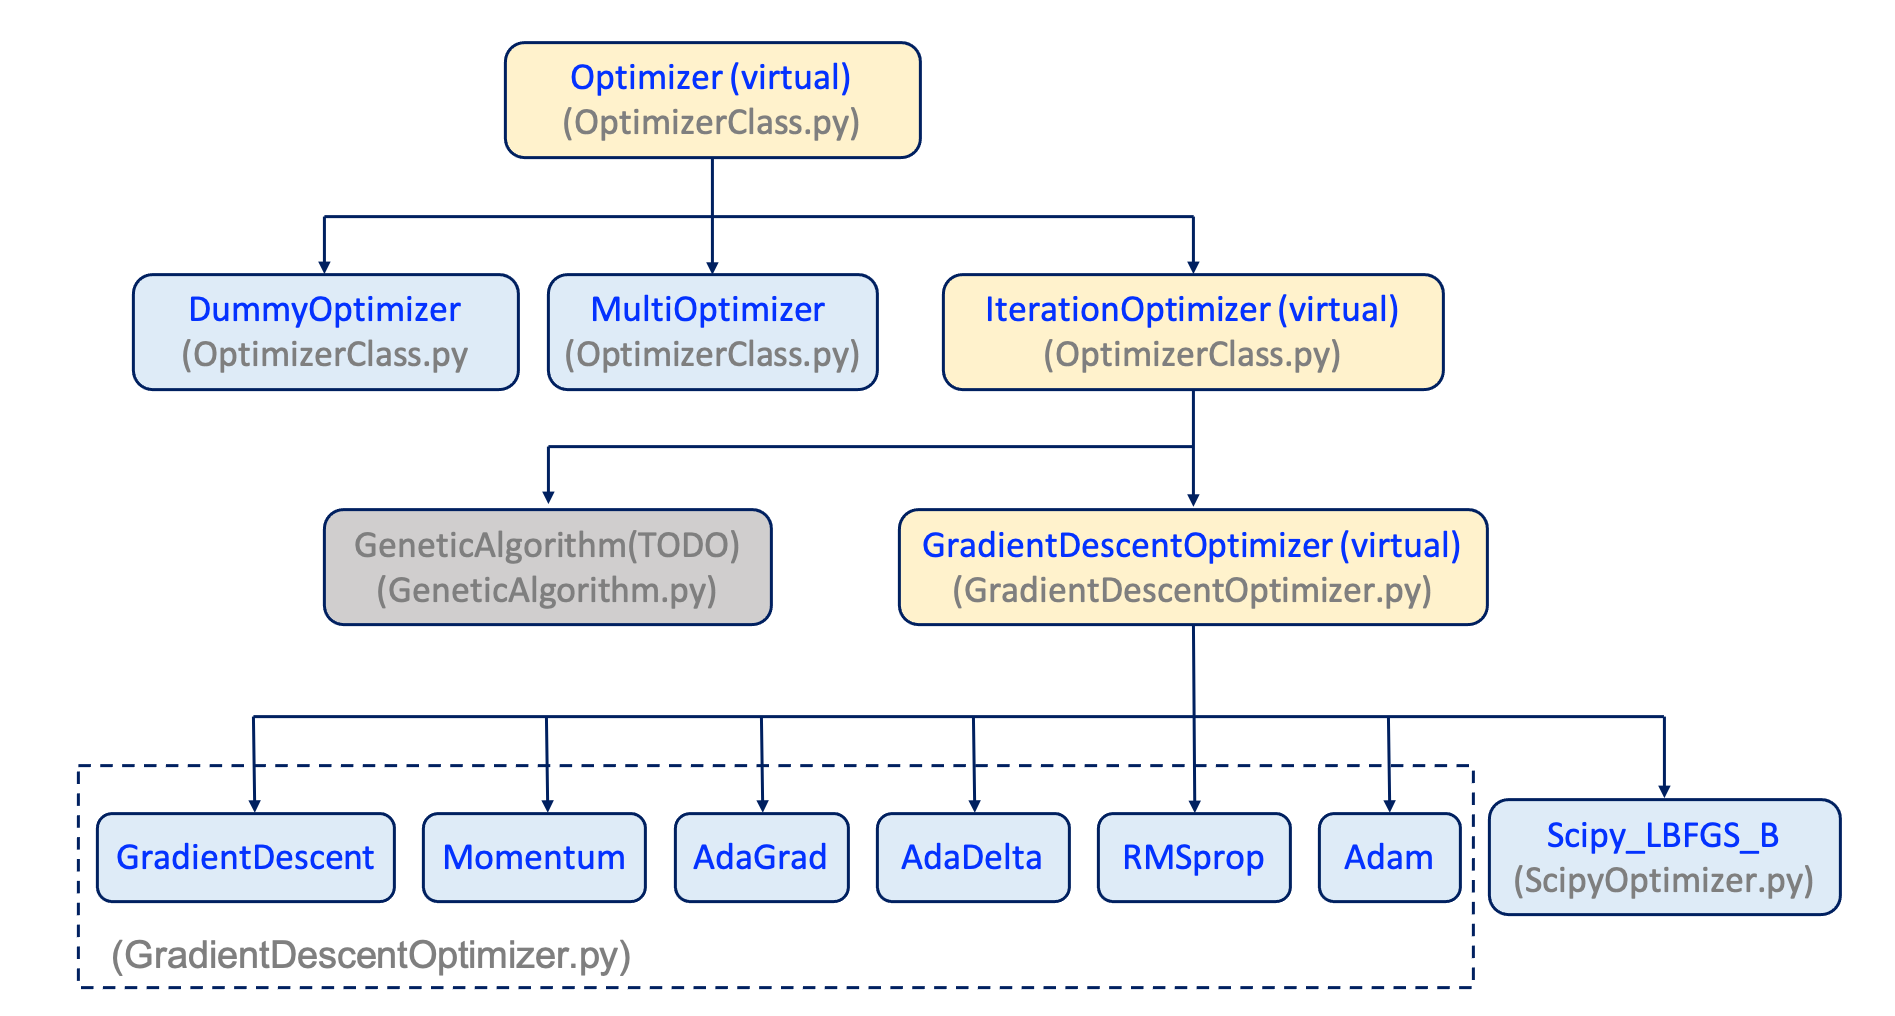
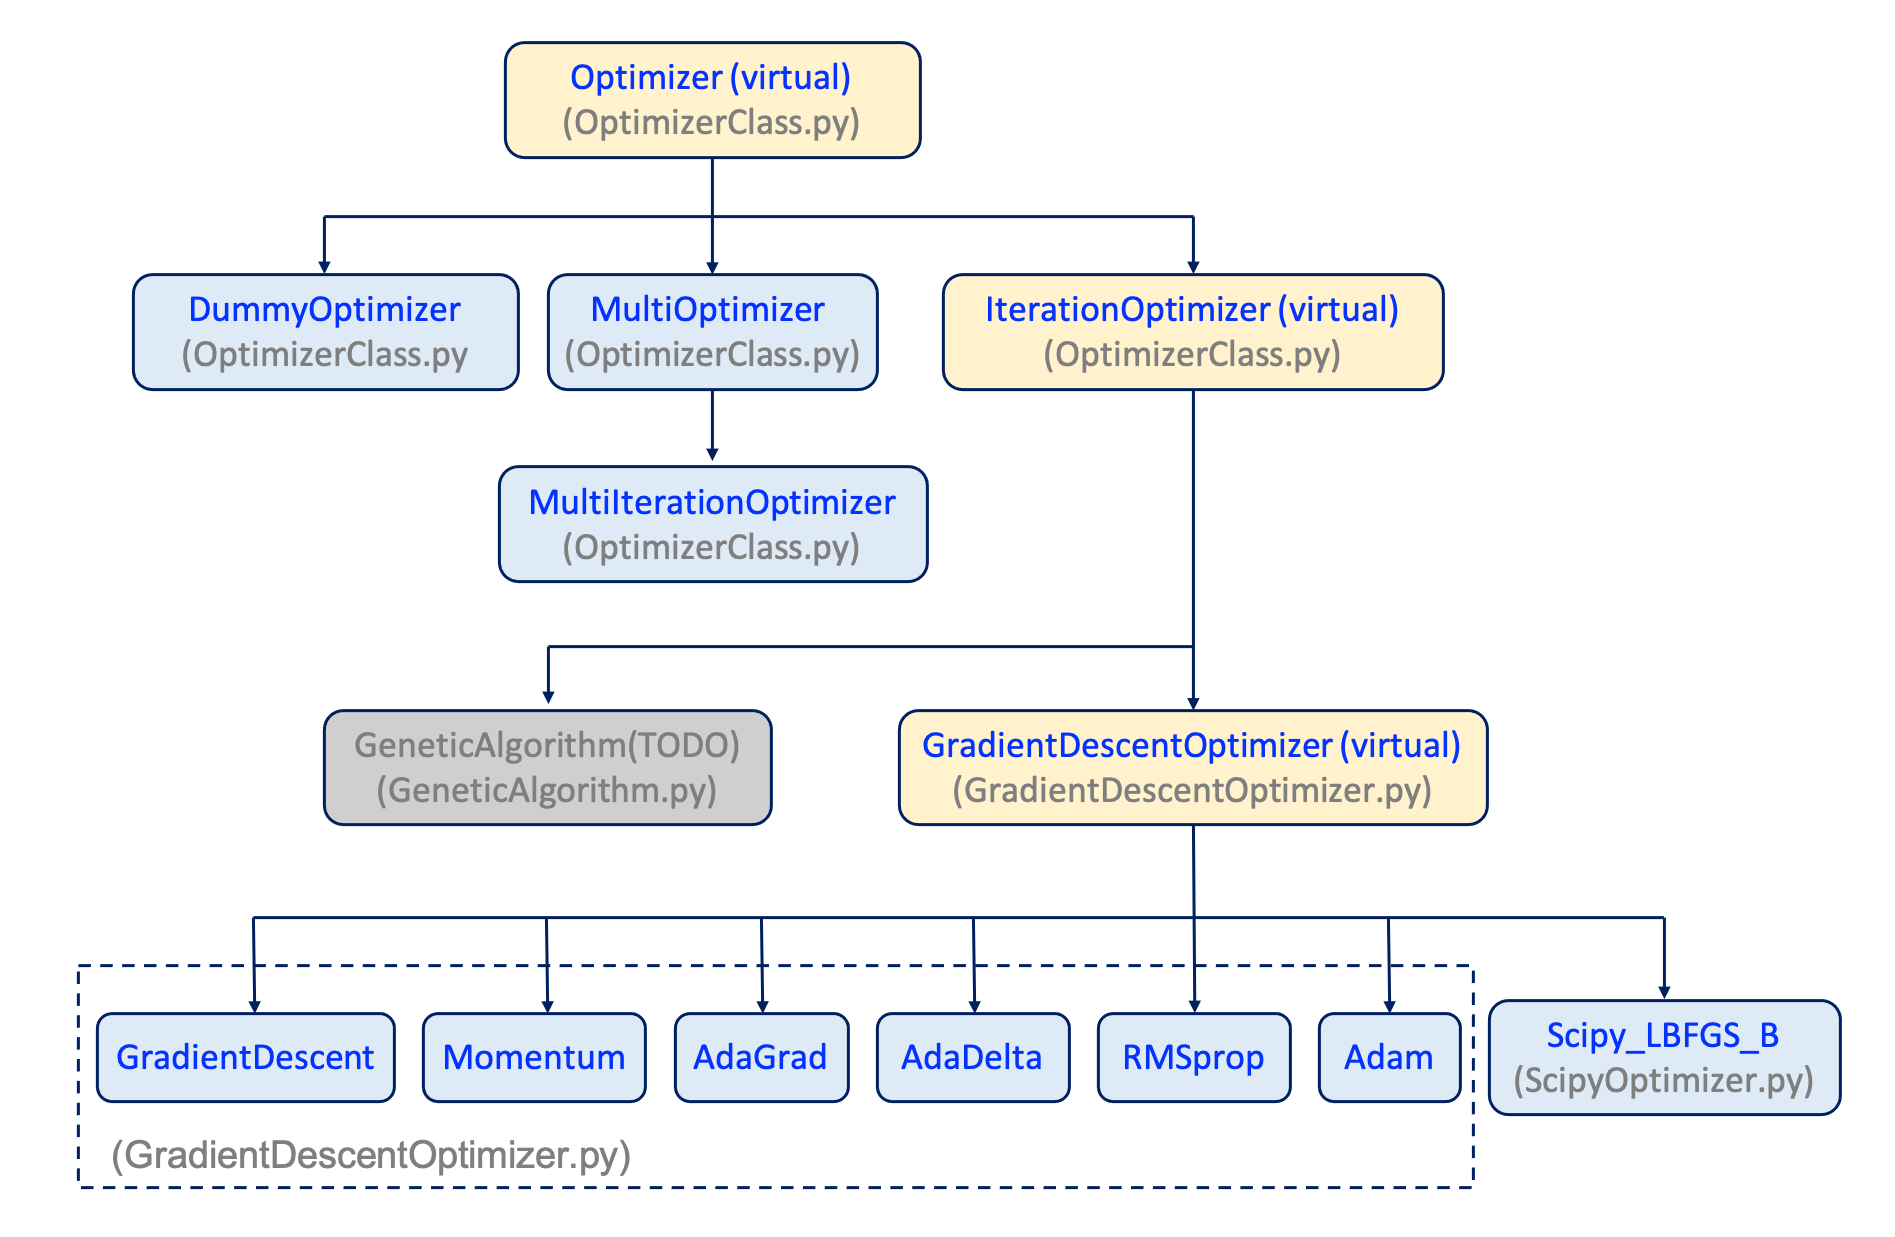
MultiIterationIotinizer

Changed region(s): [[0.0623, 0.2136, 0.8095, 0.6713], [0.0311, 0.7018, 0.9963, 0.9764], [0.1868, 0.0305, 0.6227, 0.1831]]

diff --git a/Optimizer/OptimizerClass.py b/Optimizer/OptimizerClass.py
@@ -15,10 +15,10 @@ class Optimizer:
     Optimizer is a virtual class for optimization method. 
     """
     def __init__(self, target_fun=None, name:str = ''):
-        self.name = name
-        self._target_fun = target_fun
-        self._parameter = {}
-        self.state_reset()
+        self.name = name # the name of optimizer
+        self._target_fun = target_fun # the target function 
+        self._parameter = {} # the parameter's that needs to be saved
+        self.state_reset() 
     """ untility """
     def __repr__(self):
         """ oprimizer string """
@@ -263,9 +263,6 @@ class IterationOptimizer(Optimizer):
     @max_iter.setter
     def max_iter(self, max_iter:int):
         self._parameter['max_iter'] = int(max_iter)
-    @counter.setter
-    def counter(self, counter:int):
-        self._parameter['counter'] = int(counter)
     @print_iter_flag.setter
     def print_iter_flag(self, print_iter_flag:bool):
         self._parameter['print_iter_flag'] = bool(print_iter_flag)
@@ -284,12 +281,12 @@ class DummyOptimizer(Optimizer):
         return self.optimized_x
 class MultiOptimizer(Optimizer):
     def __init__(self, target_fun=None, name:str='MultiOptimizer', optimizer_list = None ):
-        self.__optimizer_list = optimizer_list
-        if self.__optimizer_list is None:
-            self.__optimizer_list = None
+        self._optimizer_list = optimizer_list
+        if self._optimizer_list is None:
+            self._optimizer_list = None
         super().__init__( target_fun=target_fun, name=name )
     def __iter__(self):
-        for optimizer in self.__optimizer_list:
+        for optimizer in self._optimizer_list:
             yield optimizer
     def optimize(self, x_init:np.ndarray)->np.ndarray:
         self._x = copy.deepcopy(x_init)
@@ -318,7 +315,9 @@ class MultiOptimizer(Optimizer):
     def print_state(self):
         """ print the optimizer's state """
         super().print_parameter()
-        for optimizer in self.optimizer_list:
+        for ii, optimizer in enumerate(self.optimizer_list):
+            print('')
+            print('- sub-optimizer[{0}]'.format(ii))
             optimizer.print_state()
         return self
     def state_reset(self):
@@ -329,16 +328,16 @@ class MultiOptimizer(Optimizer):
     """ property """
     @property
     def optimizer_list(self):
-        return self.__optimizer_list
+        return self._optimizer_list
     @property
     def target_fun(self):
         return self._target_fun 
     """ setter """
     @optimizer_list.setter
     def optimizer_list(self, optimizer_list):
-        self.__optimizer_list = optimizer_list
-        if (self.__optimizer_list) is None:
-            self.__optimizer_list = []
+        self._optimizer_list = optimizer_list
+        if (self._optimizer_list) is None:
+            self._optimizer_list = []
         self.state_reset()
     @target_fun.setter
     def target_fun(self, target_fun):
@@ -354,3 +353,132 @@ class MultiOptimizer(Optimizer):
         for optimizer in self.optimizer_list:
             flag = ( flag and optimizer.optimized_flag )
         return flag
+class MultiIterationOptimizer(MultiOptimizer):
+    def __init__(self, target_fun=None, name:str='MultiIterationOptimizer', optimizer_list = None, 
+                 print_iter_flag:bool=True, save_history_flag:bool=False ):
+        super().__init__( target_fun=target_fun, name=name, optimizer_list=optimizer_list )
+        self.print_iter_flag = print_iter_flag
+        self.save_history_flag = save_history_flag
+    """ utility """
+    def reset_history(self):
+        """ reset history """
+        for optimizer in self.optimizer_list:
+            optimizer.reset_history()
+        return self
+    def save_history(self, savefilename:str=None, savefilepath:str='./'):
+        """ save history """
+        if not self._parameter['save_history_flag']:
+            return
+        if savefilename is None:
+            savefilename = self.name
+        if not os.path.isdir(savefilepath):
+            os.makedirs( savefilepath )
+        keytuple, hist_dict = self.history_dict
+        with open( os.path.join( savefilepath, savefilename+'_history.txt'), 'w') as file:
+            # first line
+            for key in keytuple:
+                file.write('{0:>15}'.format(key))
+            file.write('\n')
+            # data
+            count = len( hist_dict[keytuple[0]] )
+            for ii in range(count):
+                for key in keytuple:
+                    data = hist_dict[key][ii]
+                    if isinstance( data, int ):
+                        file.write('{0:>15d}'.format( data ))
+                    else:
+                        file.write('{0:>15.5e}'.format( data ))
+                file.write('\n')
+        return self
+    def plot_history(self, savefilename:str=None, savefilepath:str='./', showbool=False):
+        """ plot history """
+        if not self._parameter['save_history_flag']:
+            return
+        if savefilename is None:
+            savefilename = self.name
+        if not os.path.isdir(savefilepath):
+            os.makedirs( savefilepath )
+        keytuple, hist_dict = self.history_dict
+        count_list = hist_dict['count_list']
+        for key in keytuple:
+            if key=='count_list':
+                continue
+            plt.plot(count_list, hist_dict[key])
+            plt.xlabel('count')
+            plt.ylabel(key)
+            plt.savefig( os.path.join( savefilepath, savefilename+'_'+key+'_history.png'), bbox_inches='tight' )
+            if showbool:
+                plt.show()
+            plt.close()
+        return self
+    """ property """
+    @property 
+    def print_iter_flag(self):
+        return self._parameter['print_iter_flag']
+    @property
+    def save_history_flag(self):
+        return self._parameter['save_history_flag']
+    @property
+    def counter(self):
+        counter = 0
+        for optimizer in self.optimizer_list:
+            counter += optimizer.counter
+        return counter
+    @property
+    def history_dict(self):
+        # get histories
+        key_list, histories = self.histories_list
+        # count_list and y_history 
+        tmp_dict = {}
+        for key in key_list[1::]:
+            tmplist = np.asarray([])
+            for ii, history in enumerate( histories ):
+                tmplist = np.append( tmplist, history[key] if (ii==0) else history[key][1::] )
+            tmp_dict[key] = tmplist
+        key_list = ['count_list'] + list(key_list)
+        tmp_dict['count_list'] = np.arange( len(tmp_dict['y_history']) )
+        return tuple(key_list), tmp_dict
+    @property
+    def histories_list(self):
+        key_list, histories = None, [None] * len(self.optimizer_list)
+        for ii, optimizer in enumerate( self.optimizer_list ):
+            key_list, histories[ii] = optimizer.history_dict
+        return key_list, histories
+    """
+    @property
+    def history_dict(self):
+        # get histories
+        keys_list, histories = self.histories_list
+        # count_list and y_history # 1st elemnet:count_list, 2nd: y_history
+        y_history = np.asarray( [] )
+        for ii, history in enumerate( histories ):
+            y_history = np.append( y_history, history['y_history'] if (ii==0) else history['y_history'][1::] )
+        count_list = np.arange( len(y_history) )
+        tmp_dict = {'count_list': count_list, 'y_history': np.asarray( y_history ) }
+        # others
+        key_list = set( keys_list[0][2::] ).intersection( *keys_list[1::] ) 
+        for key in key_list:
+            tmp_list = np.asarray( [] )
+            for ii, history in enumerate( histories ):
+                tmp_list = np.append( tmp_list, history[key] if ii==0 else history[key][1::] )
+            tmp_dict[key] = tmp_list
+        key_list = ['count_list', 'y_history'] + list(key_list)
+        return tuple(key_list), tmp_dict
+    @property
+    def histories_list(self):
+        keys_list, histories = [None] * len(self.optimizer_list), [None] * len(self.optimizer_list)
+        for ii, optimizer in enumerate( self.optimizer_list ):
+            keys_list[ii], histories[ii] = optimizer.history_dict
+        return keys_list, histories
+    """
+    """ setter """
+    @print_iter_flag.setter
+    def print_iter_flag(self, print_iter_flag:bool):
+        for optimizer in self.optimizer_list:
+            optimizer.print_iter_flag = print_iter_flag
+        self._parameter['print_iter_flag'] = print_iter_flag
+    @save_history_flag.setter
+    def save_history_flag(self, save_history_flag:bool):
+        for optimizer in self.optimizer_list:
+            optimizer.save_history_flag = save_history_flag
+        self._parameter['save_history_flag'] = save_history_flag

diff --git a/Optimizer/GradientDescentOptimizer.py b/Optimizer/GradientDescentOptimizer.py
@@ -439,6 +439,7 @@ class Adam(GradientDescentOptimizer):
     @learning_rate.setter
     def learning_rate(self, learning_rate:float):
         self._parameter['learning_rate'] = learning_rate
+
 """ timer """
 def timer(optimier, x_init, N=1):
     import time

diff --git a/README.md b/README.md
@@ -221,6 +221,24 @@ a derived class of GradientDescentOptimizer, using scipy.optimize and L-BFGS-B t
 
 (M) `GeneticAlgorithm (TODO)`<br/>
 
+(N) `MultiIterationOptimizer(target_fun=None, name:str='MultiIterationOptimizer', optimizer_list = None, print_iter_flag:bool=True, save_history_flag:bool=False)`<br/>
+a derived calss of MultiOptimizer that can combine different iteration optimizer (IterationOptimizer) in the order in the optimizer_list<br/>
+
+(a) parameters<br/>
+* `print_iter_flag`: whether to print the optimizing information when optimzing<br/>
+* `save_history_flag`: whether to save the history when optimizing<br/>
+
+(b) utility<br/>
+* `.reset_history()->self`: reset the history of optimization<br/>
+* `.save_history(savefilename:str=None, savefilepath:str='./')->self`: save the history of optimization<br/>
+* `.plot_history(savefilename:str=None, savefilepath:str='./')->self`: plot the history of optimization<br/>
+
+(c) property<br/>
+* `.history_dict -> dict`: history dictionary<br/>
+* `.histories_list`: a list of keys and a list of history dictionaries of each optimizer<br/>
+* `.counter (setter) -> int`: counter<br/>
+* `.print_iter_flag (setter) -> bool`: whether to print the optimizing information when optimzing<br/>
+* `.save_history_flag (setter) -> bool`: save_history_flag: whether to save the history when optimizing<br/>
 
 ### Hierarchy
 <p align="center">
